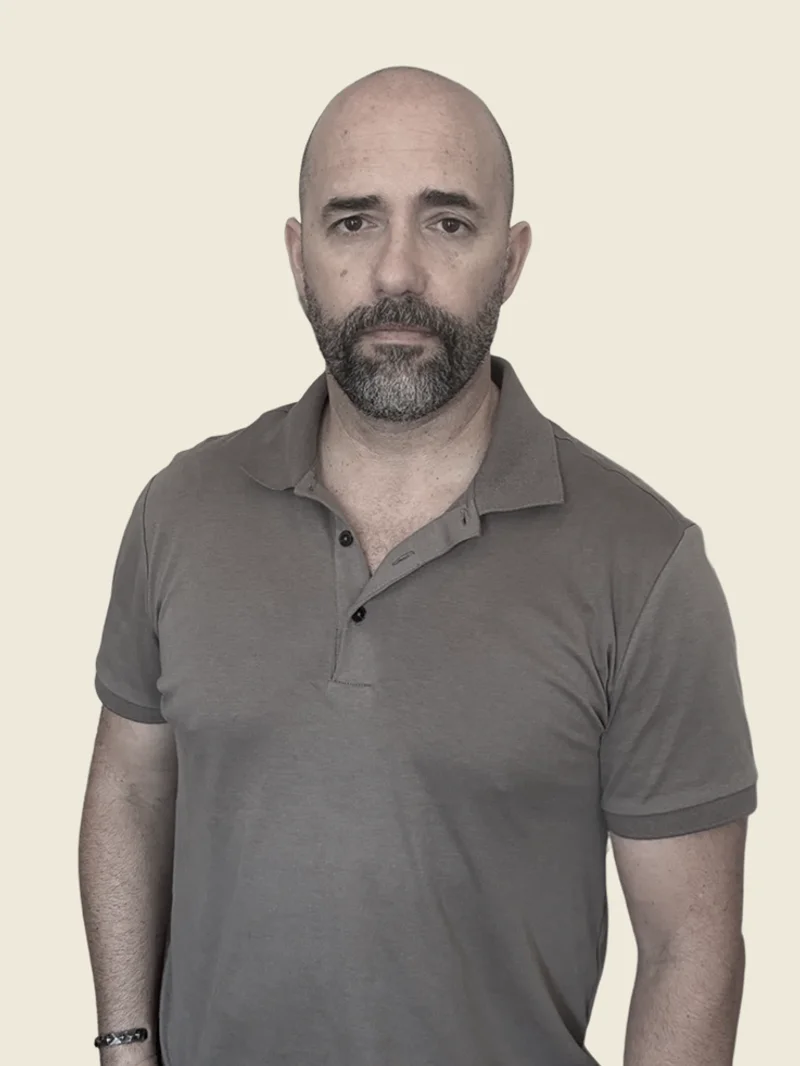
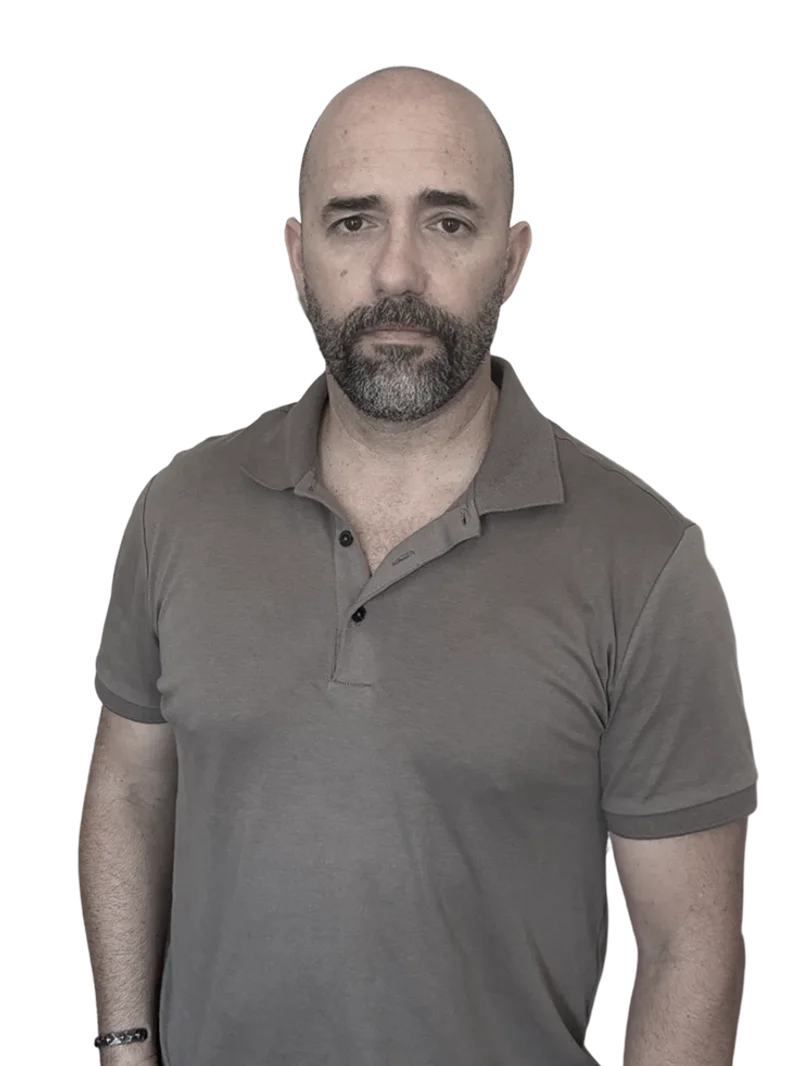
Fotografia de perfil sem fundo + CSS do contentor corrigido
- PNG com canal alfa (fundo transparente)
- WebPs regenerados com transparência
- .about-portrait: removido background e border para a foto flutuar sobre --c-subtle

diff --git a/style.css b/style.css
@@ -190,8 +190,7 @@ body {
   position: sticky; top: calc(var(--nav-h) + var(--sp-8));
 }
 .about-portrait {
-  aspect-ratio: 4/5; background: var(--c-elevated);
-  border: 1px solid var(--c-border); border-radius: 3px;
+  aspect-ratio: 4/5; background: transparent;
   overflow: hidden; display: flex; align-items: center; justify-content: center;
 }
 .portrait-initials {
